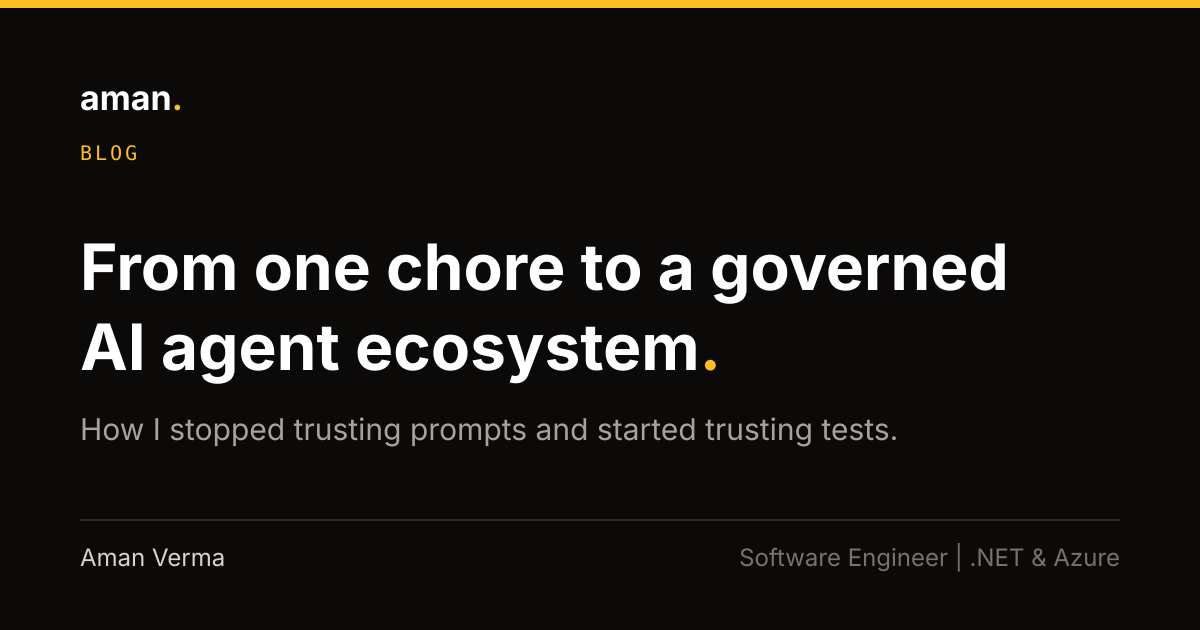
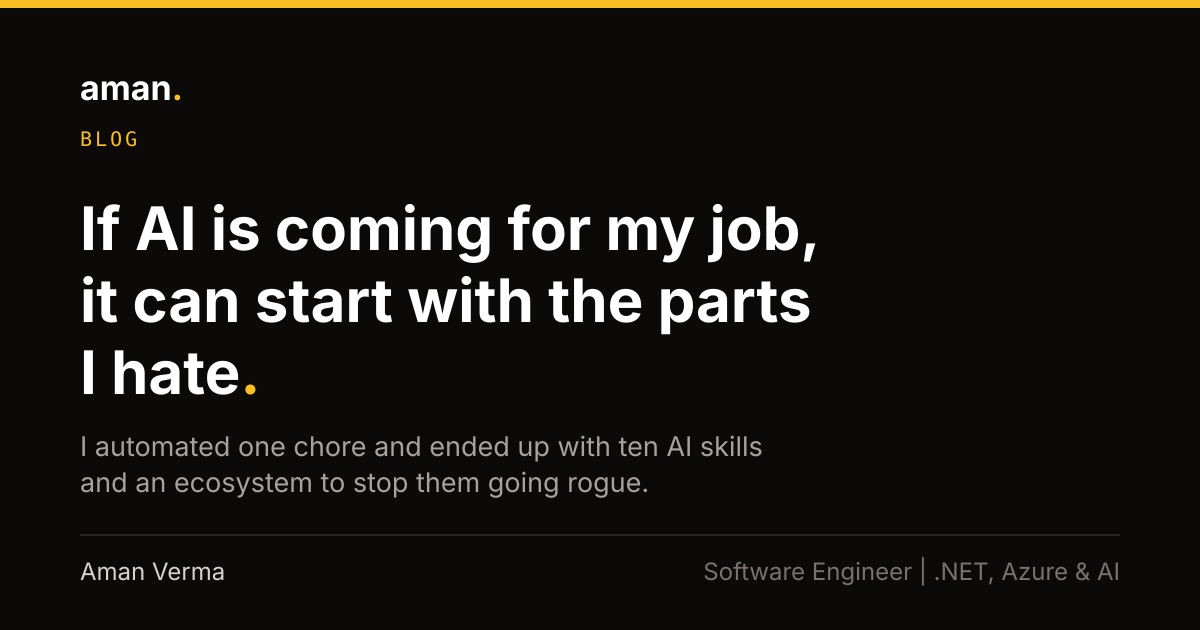
feat: update blog post metadata and enhance styling for blockquotes

diff --git a/src/data/posts.js b/src/data/posts.js
@@ -20,10 +20,10 @@
 const posts = [
   {
     slug: "governed-ai-agent-ecosystem",
-    title: "From one chore to a governed AI agent ecosystem",
-    subtitle: "How I stopped trusting prompts and started trusting tests.",
+    title: "If AI is coming for my job, it can start with the parts I hate",
+    subtitle: "I automated one chore and ended up with ten AI skills and an ecosystem to stop them going rogue.",
     description:
-      "How keeping my DevOps board up to date turned into ten Copilot skills, guardrails enforced in code and 100+ tests, and what it taught me about adopting AI agents safely.",
+      "How keeping my DevOps board up to date turned into ten Copilot skills, guardrails enforced in code, a skill that checks the others and 100+ tests, and what it taught me about adopting AI safely.",
     date: "2026-11-15",
     tags: ["Agentic AI", "GitHub Copilot", "MCP", "Guardrails"],
     ogImage: "/images/blog/governed-ai-agent-ecosystem/og.png",

diff --git a/src/pages/BlogPostPage.jsx b/src/pages/BlogPostPage.jsx
@@ -91,7 +91,11 @@ export default function BlogPostPage() {
             prose-headings:text-white prose-headings:font-bold
             prose-a:text-amber-400 prose-a:no-underline hover:prose-a:underline
             prose-strong:text-white prose-th:text-white
-            prose-li:marker:text-amber-400"
+            prose-li:marker:text-amber-400
+            prose-blockquote:not-italic prose-blockquote:font-normal prose-blockquote:text-stone-300
+            prose-blockquote:border-amber-400 prose-blockquote:bg-stone-900/60 prose-blockquote:rounded-r-lg
+            prose-blockquote:px-6 prose-blockquote:py-1
+            [&_blockquote_p]:before:content-none [&_blockquote_p]:after:content-none"
         >
           <ReactMarkdown remarkPlugins={[remarkGfm]} components={markdownComponents}>
             {body}

diff --git a/src/content/posts/governed-ai-agent-ecosystem.md b/src/content/posts/governed-ai-agent-ecosystem.md
@@ -1,8 +1,21 @@
+The part of my job I'd most happily hand to AI is the admin around the code. Turns out that's exactly what it's good at.
+
 Classic engineer move: to keep my DevOps board up to date, I built a whole custom skills ecosystem with 100+ tests, on my own machine, over two weeks alongside my actual work.
 
 ![Expanding brain meme. Updating the board by hand. Asking Copilot to write the updates. Building a skill that writes them. Building 10 skills and 100+ tests to avoid a 10-minute chore.](/images/blog/governed-ai-agent-ecosystem/meme-expanding-brain.jpg)
 
 In my defence, I'm a slightly paranoid developer. I wasn't going to let an agent loose on real work until it had earned that trust, and I wanted the trust to come from guardrails, not good behaviour.
+
+This isn't a post about letting agents run free. Plenty of companies aren't ready for that, often for good reasons: risk, audit, regulation, or a culture that wants a person accountable for every change. There, the realistic model isn't "automate it all". It's developers in the loop: AI does the work, and the developer orchestrates it and signs off at the end. That's what this setup is built for.
+
+> **The short version**
+>
+> - AI does the work; the developer orchestrates it and owns the result.
+> - Rules in a prompt get bent; rules in a script don't.
+> - Approval covers the exact change, so "yes, but tweak this" means a new preview.
+> - Every guard has tests that try to break it.
+> - One skill's whole job is checking the other nine.
+> - No skill is right the first time: each one gets updated after real use.
 
 ## The copy-paste loop
 
@@ -31,7 +44,15 @@ After that I started noticing every instruction I'd given twice. Over the next t
 | PR review | Drafts a review I read before anything is posted: thorough for my own PRs, short and friendly for others' |
 | Skills health | Checks the setup itself: integrity, stale logs, broken references |
 
-It was genuinely useful, and that was the part that worried me. I'd given a confident, fast model write access to things other people read.
+## Skill by skill, never right the first time
+
+I didn't design ten skills up front. I built one, used it until something annoyed me, and fixed what annoyed me. Every major run ends the same way: what worked, what didn't, and what the skill should do differently next time. That goes into the skill or the shared standards straight away, while it's fresh.
+
+I also document what works and what doesn't, so the lessons don't live only in my head. It's why the tenth skill took a fraction of the effort of the first: each new one starts from the same rules, standards and test patterns, plus everything the earlier ones got wrong.
+
+The next skill gets picked by counting, not by ideas. I look at what I actually keep asking the agent for, and the repeats win. Several brilliant-sounding ideas never made the cut.
+
+It was all genuinely useful, and that was the part that worried me. I'd given a confident, fast model write access to things other people read.
 
 ## The problem with polite rules
 
@@ -55,11 +76,13 @@ Here's what happens now when I ask: "Create a user story for this requirement, w
 
 The agent can't talk its way around a hash. That's the whole trick. And there's no delete script at all, because you can't misuse a capability that doesn't exist.
 
-## Who tests the guards?
+## Who checks the checkers?
 
 A guard nobody has tried to break is just another polite rule. So the guards have their own test suite, run against fake folders with every external call stubbed, so a test can never touch anything real. Each test tries to trick a guard: a stale approval code, a file outside the approved plan, a secret hidden in a description.
 
-Two rules came out of this: tests before guards, guards before skills. And never weaken a guard to make a test pass. A health check also fingerprints the guards and skills, and flags anything that changed since I last reviewed it.
+Two rules came out of this: tests before guards, guards before skills. And never weaken a guard to make a test pass.
+
+Skills drift too: a quick edit here, a stale reference there. So one skill's whole job is checking the other nine. It fingerprints the guards, standards and skills, flags anything that changed since I last reviewed it, and catches broken references and stale logs. It's the closest thing the setup has to a code review for itself.
 
 ## Zooming out: the ecosystem
 
@@ -93,14 +116,13 @@ Every skill follows the same contract: load the guardrails, preview before apply
 - **Start read-only.** Reading is where agents are most useful and least dangerous, and it builds the trust you need before letting them write.
 - **Add one guarded write.** Preview, approve the exact version, apply only through a script that checks it. One is enough to learn the pattern.
 - **Write the tests before the guards.** Fake folders, stubbed network calls and a test for every refusal.
-- **Count before you build.** Look at what you actually ask the agent for; the repeats are your next skill. Several of my brilliant-sounding ideas never made the cut.
 - **Expect to pay up front.** Building this took thousands of credits. Running it is cheap, because scripts do the deterministic work, the model only orchestrates, and skills stop me paying to re-explain context.
 
 Two honest caveats. This is a personal setup, not a replacement for security reviews, access policies or anyone whose job is to say no. And guardrails lower risk without removing it: the script makes sure only what I approved lands, but it can't make me approve the right thing.
 
 ## Closing
 
-This isn't the most advanced agent setup out there, and it doesn't need to be. It's what let me hand an agent real work and trust the result, one guarded step at a time. The ambitious stuff can come later; the trust has to come first.
+This isn't the most advanced agent setup out there, and it doesn't need to be. Where every change needs a human owner, the goal isn't full autonomy. It's AI doing more of the work while a developer stays accountable for all of it. The ambitious stuff can come later; the trust has to come first.
 
 ![It ain't much, but it's honest work.](/images/blog/governed-ai-agent-ecosystem/meme-honest-work.jpg)
 
